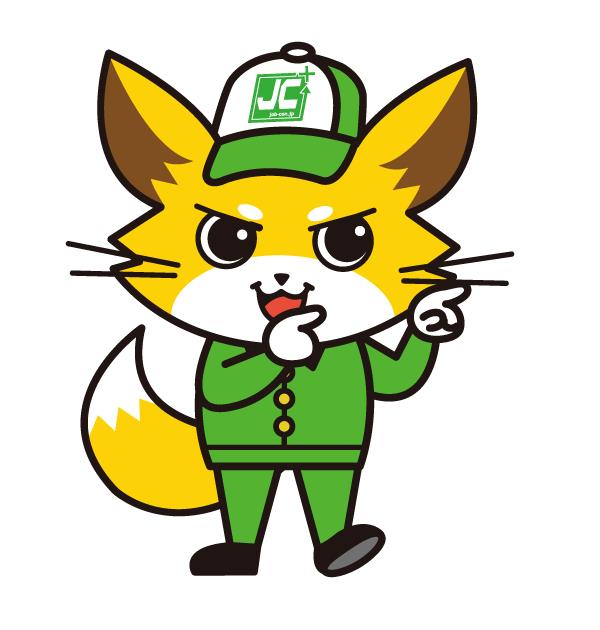
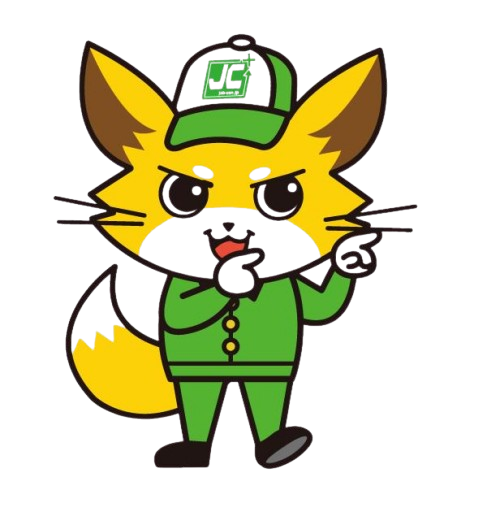
キャラクターを変化

diff --git a/player.py b/player.py
@@ -1,4 +1,3 @@
-
 # プレイヤーキャラクターの挙動を定義するモジュール
 import pygame
 from drowchar import charactor as character
@@ -9,7 +8,7 @@ class Player(character):
     プレイヤーキャラクタークラス。
     方向キー入力や壁衝突時のUターン、停止などの挙動を管理する。
     """
-    def __init__(self, img="assets\\charactor\\Trollman.png", x=1, y=1, game_map=None):
+    def __init__(self, img=None, x=1, y=1, game_map=None):
         """
         プレイヤーの初期化。
         :param img: キャラ画像パス
@@ -19,9 +18,14 @@ class Player(character):
         :param lifes: 初期ライフ数
         :param score: 初期スコア
         """
-        super().__init__(img, x, y)
-        #self.x = x
-        #self.y = y
+        
+        self.img = img
+        if img:
+            self.image = pygame.image.load(img).convert_alpha()
+        else:
+            self.image = pygame.Surface((const.TILE_SIZE, const.TILE_SIZE))
+            self.image.fill((255, 0, 0))
+        super().__init__(img, x, y)        
         self.speed = 2
         self.direction = "right"  # 現在の進行方向
         self.next_direction = "right"  # 希望方向（キー入力でセット）
@@ -229,6 +233,7 @@ class Player(character):
         if self.lifes > 0:
             self.lifes -= 1
     
+    # プレイヤーが敵と衝突したか判定し、衝突したらライフを減らす
     def check_collision_with_enemy(self, enemies):
         if self.invincible or self.hit_flash:
             now = pygame.time.get_ticks()
@@ -247,6 +252,7 @@ class Player(character):
                 self.hit_flash_timer = pygame.time.get_ticks()
                 self.hit_flash_count = 0
                 break
+
     def reset_state(self):
         """
         スコアとライフを初期化。

diff --git a/drowchar.py b/drowchar.py
@@ -10,7 +10,7 @@ class charactor:
     キャラクターの基底クラス。
     プレイヤー・敵などの共通処理（画像管理・描画・向き変更）を持つ。
     """
-    def __init__(self, pict, x=1, y=1):
+    def __init__(self, pict=None, x=1, y=1):
         """
         キャラクター画像の読み込み・初期化。
         :param pict: 画像ファイルパス
